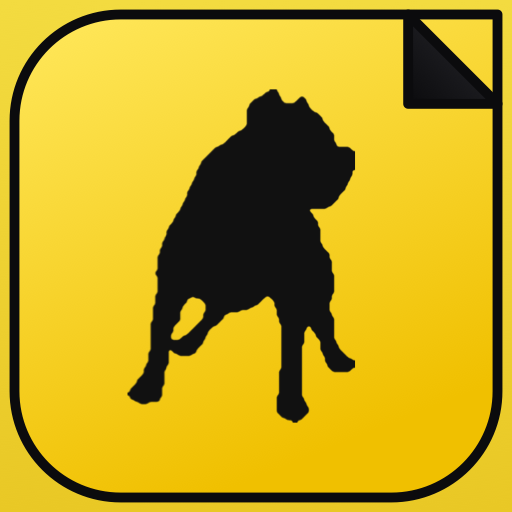
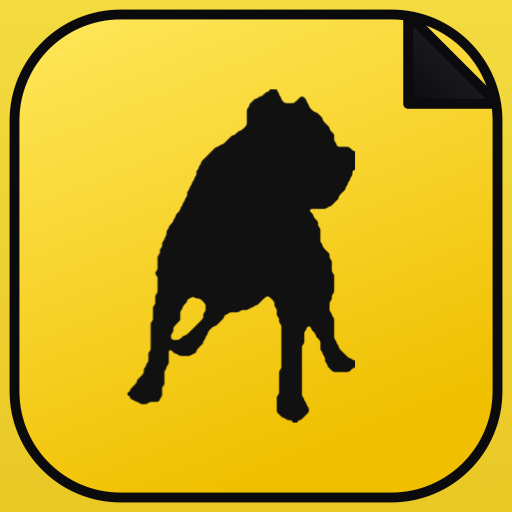
Fix the layout I broke, and round the corner back
THE LAYOUT, which was mine. Yesterday I bought clearance for the grid by
taking 40px off the space it was measured against, and wrote in the
commit that "the row gap absorbs all four pixels, so the tile stays 66".
That was true in a 393x852 test harness and false in Safari, where the
chrome eats a hundred points of height: there the row gap is already at
its floor, so every pixel off the pitch is a pixel off the TILE. The
icons went 49px to 43, and on a shorter phone to 38 — small tiles under
full-width labels, with a dead band beneath them. "All broken" is fair.

The clearance was never the grid's to pay for. The dots sat 187px up
while the grid was sized against a 172px reserve, so the grid was
entitled to fifteen pixels the dots already occupied — and they had 33px
of unused space between themselves and the Spotlight row. Moving them
down eighteen costs nothing and hands the grid those eighteen back. What
is left in the grid is 12px rather than 40, which a tall screen absorbs
in the gap and a short one pays two pixels of tile for instead of six.

Measured at four viewports: tile 66/47/43/59 against the 66/43/38/54 he
was looking at, with 35/30/28/28 of clearance against the 7 that started
all this. Better than both the broken state and the one before it.

THE CORNER is rounded again — "also make the top right corner with
radius". It was squared for a day on the earlier note to square it off,
and the reasoning then (paper does not round where it folds) loses to
[…]

Changed region(s): [[0.7812, 0.0, 1.0, 0.2188]]

diff --git a/src/apps/dialer/PagesMark.tsx b/src/apps/dialer/PagesMark.tsx
@@ -61,10 +61,17 @@ const FRONT = layerAt(LAYERS - 1)
 /**
  * Corner radius as a proportion of whichever layer is drawn.
  *
- * The top right is a RIGHT ANGLE — "square off the corner here". Every other
- * corner keeps the app-icon rounding. That corner is where the page is turned
- * down, and paper does not round off where it folds: squaring it is what makes
- * the dog-ear read as a dog-ear rather than as a triangle drawn on a tile.
+ * ALL FOUR corners are rounded — "also make the top right corner with radius".
+ *
+ * It was squared for a day, on the earlier note to "square off the corner
+ * here", and the reasoning then was that paper does not round off where it
+ * folds. Round wins on the actual screen: this sits in a row of app icons, and
+ * one square corner reads as a rendering fault rather than as a detail.
+ *
+ * The fold is CLIPPED to the sheet because of it. With a square corner the flap
+ * ended exactly on the tile's edge; against an arc its outer point falls
+ * outside the boundary, so it is clipped to the same path the tile draws and
+ * conforms to the curve.
  */
 const RADIUS = 0.22
 
@@ -104,8 +111,8 @@ function sheetPath(layer: { x: number; y: number; size: number }): string {
   const b = y + size
   return [
     `M ${x + rad} ${y}`,
-    `H ${r}`,
-    `V ${y}`,
+    `H ${r - rad}`,
+    `A ${rad} ${rad} 0 0 1 ${r} ${y + rad}`,
     `V ${b - rad}`,
     `A ${rad} ${rad} 0 0 1 ${r - rad} ${b}`,
     `H ${x + rad}`,
@@ -190,7 +197,7 @@ export function PagesMark({ className }: { className?: string }) {
         preserveAspectRatio="xMidYMid meet"
       />
 
-      <path d={foldPath()} fill="url(#pm-fold)" />
+      <path d={foldPath()} fill="url(#pm-fold)" clipPath="url(#pm-clip)" />
 
       {/*
         The outline goes on LAST and unfilled, so it sits over the sheet, the
@@ -204,7 +211,14 @@ export function PagesMark({ className }: { className?: string }) {
         strokeWidth="2.04"
         strokeLinejoin="round"
       />
-      <path d={foldPath()} fill="none" stroke="#0B0B0D" strokeWidth="2.04" strokeLinejoin="round" />
+      <path
+        d={foldPath()}
+        fill="none"
+        stroke="#0B0B0D"
+        strokeWidth="2.04"
+        strokeLinejoin="round"
+        clipPath="url(#pm-clip)"
+      />
     </svg>
   )
 }

diff --git a/src/ios/HomeScreen.tsx b/src/ios/HomeScreen.tsx
@@ -210,20 +210,25 @@ export function HomeScreen({ onOpen, receding, hidden, inert, jumpToCity, onJump
     const minTile = 28
     const slotRows = Math.ceil(SPOTS_PER_PAGE / cols)
     /*
-      AIR, on top of the reserve.
+      A LITTLE air on top of the reserve, and only a little.
 
-      bottomReserve is the height the dots, the Spotlight pill and the dock
-      occupy — so measuring against it alone means the grid is allowed to end
-      exactly where the dots begin, and it did: measured on the built page, the
-      last row of labels finished 7px above the dots at 393pt and 6px at 390.
-      Not an overlap by the arithmetic, and unmistakably too tight to look at,
-      which is what the operator said.
+      This was 40 and it was the wrong shape of fix. bottomReserve is the height
+      the dots, the pill and the dock occupy, so measuring against it alone let
+      the grid end exactly where the dots begin. Buying clearance out of the
+      grid, though, buys it out of the TILE on any phone-sized viewport: the row
+      gap is already at its floor there, so every pixel taken from the pitch is a
+      pixel off the icon. In Safari, where the chrome eats a hundred points of
+      height, that took the tile from 49px to 43 and on a shorter phone to 38.
+      Small tiles under full-width labels, which is what "all broken" looked
+      like.
 
-      The grid gives this up before the tile does. At 393pt the pitch drops from
-      100 to 96 and the row gap absorbs all four pixels, so the tile stays the
-      66px he asked for and only the space between rows changes.
+      Almost all of the clearance now comes from moving the DOTS down eighteen
+      pixels instead — see .page-dots, where there was 33px of unused space. That
+      costs nothing. What is left here is 12, which on a tall screen the row gap
+      absorbs entirely and on a short one costs two pixels of tile rather than
+      six.
     */
-    const slotAir = 40
+    const slotAir = 12
     const slotPitch = Math.min(
       rowPitch,
       (screen.h - topPad - headingH - bottomReserve - slotAir) / slotRows,

diff --git a/src/styles.css b/src/styles.css
@@ -507,7 +507,21 @@ textarea {
   position: absolute;
   left: 0;
   right: 0;
-  bottom: 176px;
+  /*
+    158, down from 176.
+
+    The dots sat 187px up from the bottom while the grid above them was sized
+    against a 172px reserve, so the grid was entitled to fifteen pixels the dots
+    were already using. Every fix for that had been taken out of the GRID —
+    which on a phone-sized viewport comes straight off the tile, because the row
+    gap is already at its floor there and has nothing left to give.
+
+    Moving the dots instead costs nothing at all. There is 33px of clear space
+    between them and the Spotlight row, so they can drop eighteen and still
+    leave fifteen; the grid gets that eighteen for free and the tiles keep their
+    size.
+  */
+  bottom: 158px;
   display: flex;
   justify-content: center;
   gap: 8px;
@@ -2713,8 +2727,21 @@ textarea {
     bottom: calc(var(--bottom-h) + 108px);
   }
 
+  /*
+    150, down from 168 — eighteen pixels closer to the Spotlight row.
+
+    The grid above is sized against a reserve that stopped short of where the
+    dots actually sat, so the last row of labels was entitled to space the dots
+    were already using. Every previous attempt at that clearance was taken out
+    of the grid, and on a phone that comes straight off the TILE: the row gap is
+    at its floor there, so a smaller pitch is a smaller icon, not a tighter one.
+
+    Moving the dots costs nothing. They sat 33px clear of the Spotlight row, so
+    dropping eighteen still leaves fifteen — and the grid gets those eighteen
+    without the tile paying for them.
+  */
   .page-dots {
-    bottom: calc(var(--bottom-h) + 168px);
+    bottom: calc(var(--bottom-h) + 150px);
   }
 
   /*

diff --git a/index.html b/index.html
@@ -12,7 +12,7 @@
          Screen" across two lines. -->
     <meta name="apple-mobile-web-app-title" content="BEASTY" />
     <link rel="manifest" href="/manifest.webmanifest" />
-    <link rel="apple-touch-icon" href="/apple-touch-icon.png?v=09b583d1" />
+    <link rel="apple-touch-icon" href="/apple-touch-icon.png?v=dff47c2c" />
     <title>The Home Screen</title>
   </head>
   <body>
